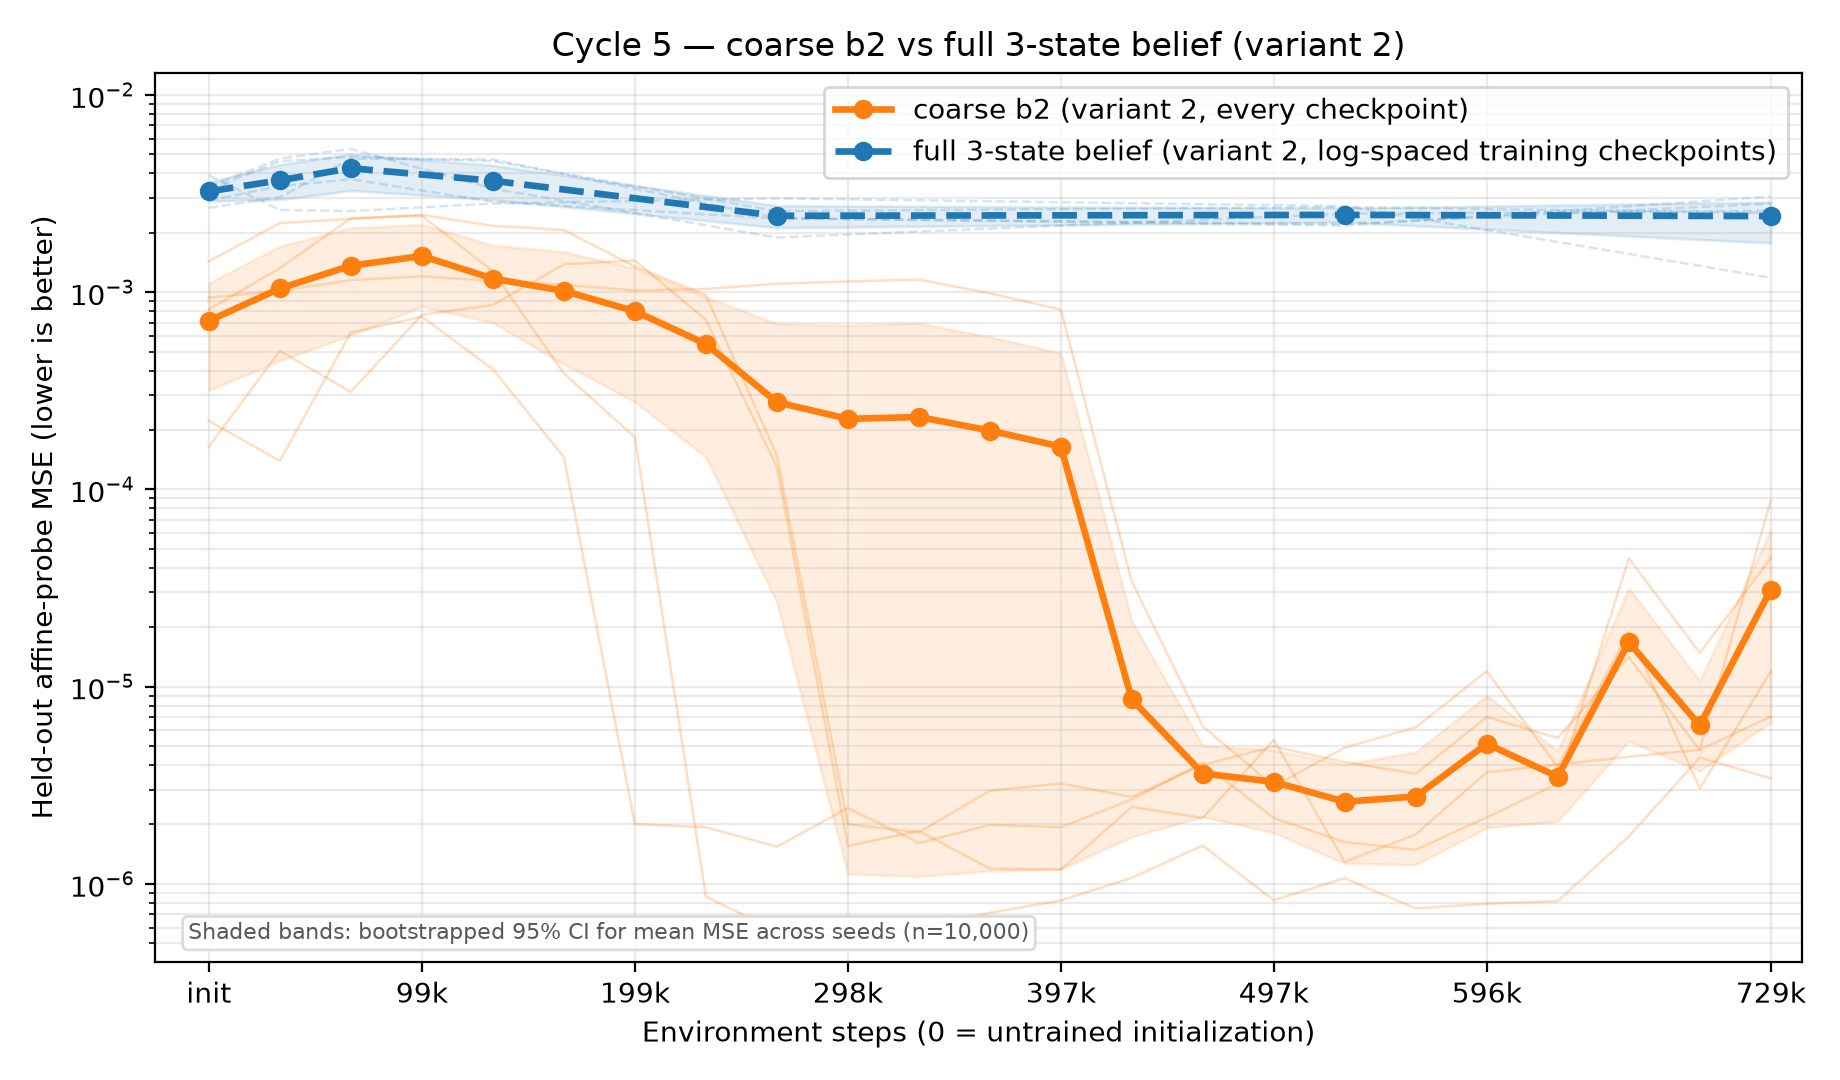
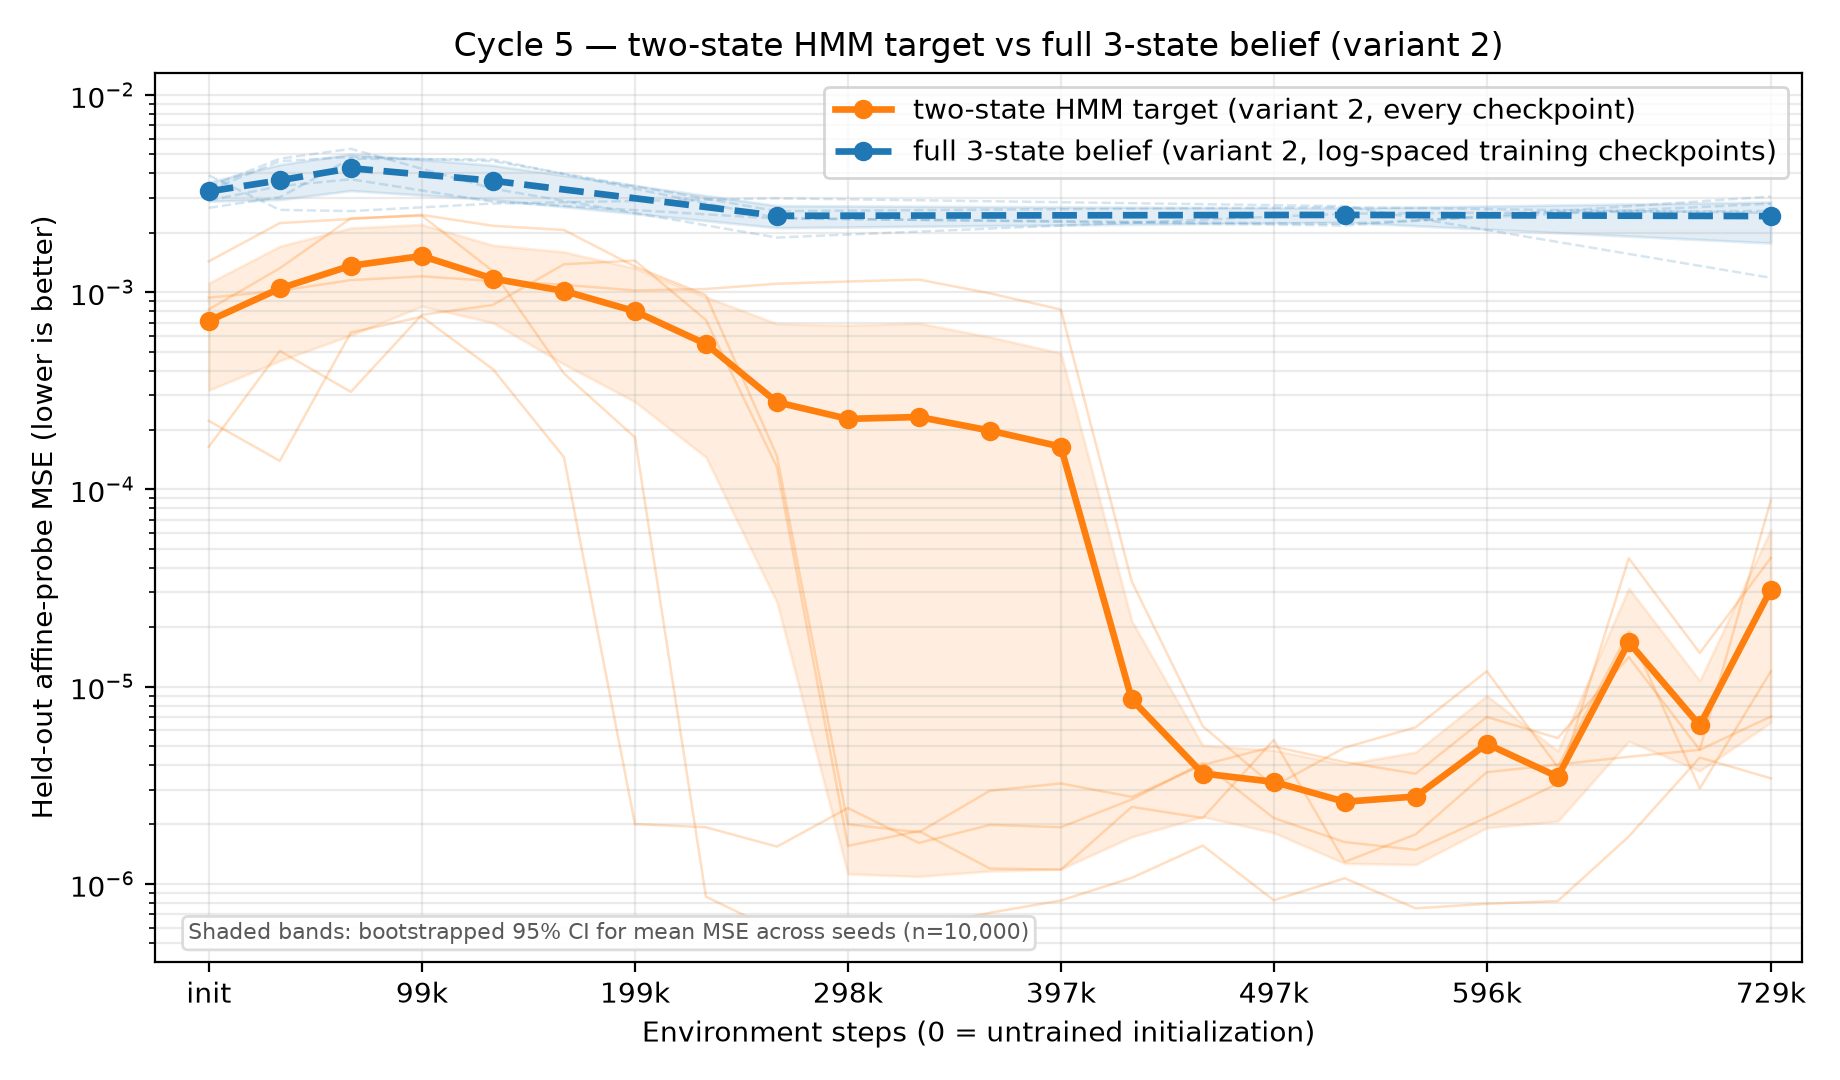
Rename coarse b2 plot label to two-state HMM target
Update the overlay figure legend and title so the primary curve reads
"two-state HMM target" instead of "coarse b2".

Changed region(s): [[0.2478, 0.0306, 0.8054, 0.0611], [0.4957, 0.0917, 0.8984, 0.1222]]

diff --git a/experiments/mess3_reward_state_action_symmetry_cycle_4/belief_symmetry_probes/trajectory_campaign.py b/experiments/mess3_reward_state_action_symmetry_cycle_4/belief_symmetry_probes/trajectory_campaign.py
@@ -579,7 +579,7 @@ def _plot_coarse_b2_overlay(summary: dict[str, Any], output_stem: Path) -> None:
         plot_x=coarse_x,
         curve=coarse_curve,
         color=COARSE_B2_COLOR,
-        label="coarse b2 (variant 2, every checkpoint)",
+        label="two-state HMM target (variant 2, every checkpoint)",
     )
     all_mse.extend(series_mse)
     init_mse.append(series_init)
@@ -602,7 +602,7 @@ def _plot_coarse_b2_overlay(summary: dict[str, Any], output_stem: Path) -> None:
         agent_steps=coarse_curve["agent_steps"],
         ylabel="Held-out affine-probe MSE (lower is better)",
         title=(
-            f"Cycle {summary['cycle']} — coarse b2 vs full 3-state belief (variant 2)"
+            f"Cycle {summary['cycle']} — two-state HMM target vs full 3-state belief (variant 2)"
         ),
     )
     axis.set_xlabel("Environment steps (0 = untrained initialization)")
